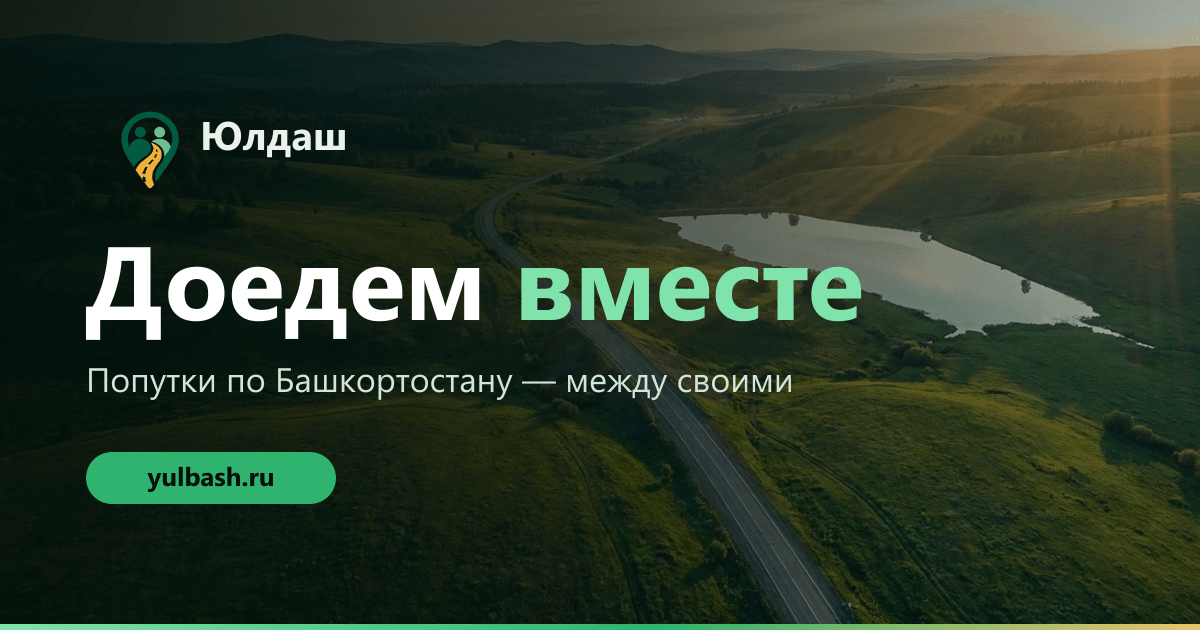
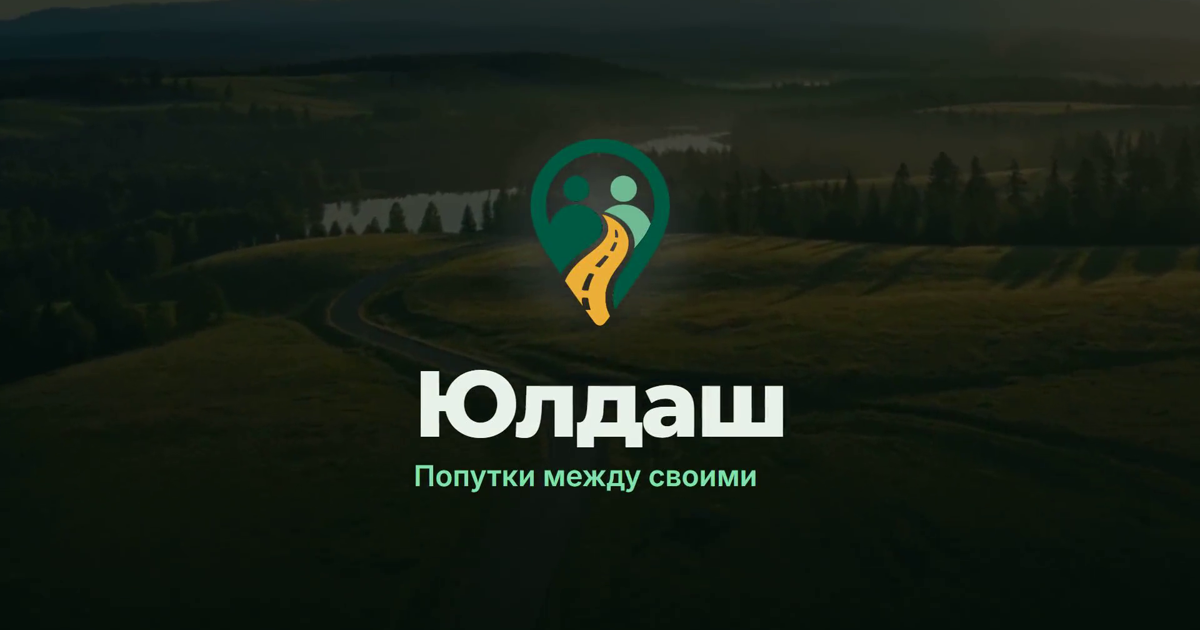
polish: контраст AA, размер APK 45МБ, новый OG в бренде
- a11y: text-night/70 → /90 на зелёных кнопках (сабтекст скачивания + метка
  периода в тарифах) — контраст ≥4.5:1 (было 4.11).
- Размер APK в подписи 49 → 45 МБ (реальные сборки 43-45).
- Новый og.png (превью при шаринге): кадр заставки промо — road + логотип +
  «Юлдаш» Montserrat, единый бренд. 1200x630.

diff --git a/web/components/lang.tsx b/web/components/lang.tsx
@@ -31,7 +31,7 @@ export const dict = {
     "Юлдаш — Башҡортостан буйлап үҙ-ара юлдаштар. Ышаныс, йылы юлдар һәм ғәҙел хаҡ."
   ),
   hero_cta: t("Скачать для Android", "Android өсөн йөкләргә"),
-  hero_cta_sub: t("Бесплатно · APK · ~49 МБ", "Бушлай · APK · ~49 МБ"),
+  hero_cta_sub: t("Бесплатно · APK · ~45 МБ", "Бушлай · APK · ~45 МБ"),
   hero_note: t(
     "После загрузки разреши установку «из этого источника» — это нормально для APK.",
     "Йөкләгәндән һуң «был сығанаҡтан» урынлаштырыуға рөхсәт ит — APK өсөн был ғәҙәти."

diff --git a/web/components/config.ts b/web/components/config.ts
@@ -19,8 +19,8 @@ export const STORE_LINKS = {
 export const QR_SRC = "/qr-download.svg";
 
 // Размер для подписи под кнопкой (поправь под реальный вес сборки).
-// Релиз с MapKit+Firebase ≈ 49 МБ (docs/tasks.md).
-export const APK_SIZE = "~49 МБ";
+// Релиз с MapKit+Firebase ≈ 43–45 МБ (реальные сборки 2026-06-30).
+export const APK_SIZE = "~45 МБ";
 
 // Базовый URL сайта (для OG/robots/sitemap). Поменяй, если лендинг на поддомене.
 export const SITE_URL = "https://yulbash.ru";

diff --git a/web/components/Partners.tsx b/web/components/Partners.tsx
@@ -103,7 +103,7 @@ export function Partners() {
               >
                 {pp.months} {tr("partner_mo_short")}
                 {pp.off > 0 && (
-                  <span className={`ml-1 text-xs font-bold ${i === periodIdx ? "text-night/70" : "text-gold-light"}`}>
+                  <span className={`ml-1 text-xs font-bold ${i === periodIdx ? "text-night/90" : "text-gold-light"}`}>
                     −{Math.round(pp.off * 100)}%
                   </span>
                 )}

diff --git a/web/components/DownloadButton.tsx b/web/components/DownloadButton.tsx
@@ -59,7 +59,7 @@ export function DownloadButton({
         </svg>
         {label}
       </span>
-      {subLabel && <span className="mt-0.5 text-xs font-semibold text-night/70">{subLabel}</span>}
+      {subLabel && <span className="mt-0.5 text-xs font-semibold text-night/90">{subLabel}</span>}
     </motion.button>
   );
 }
